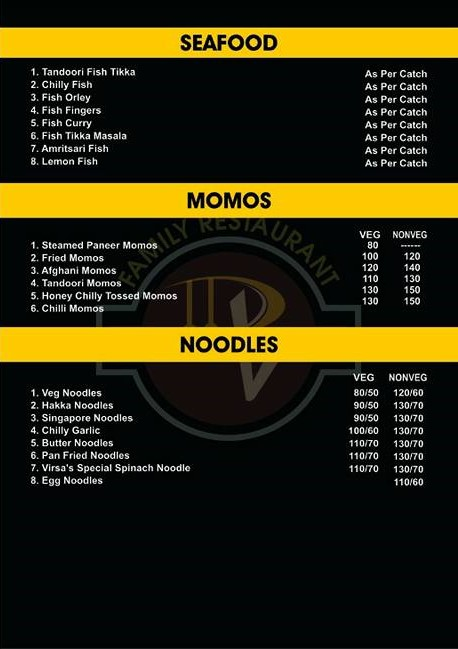
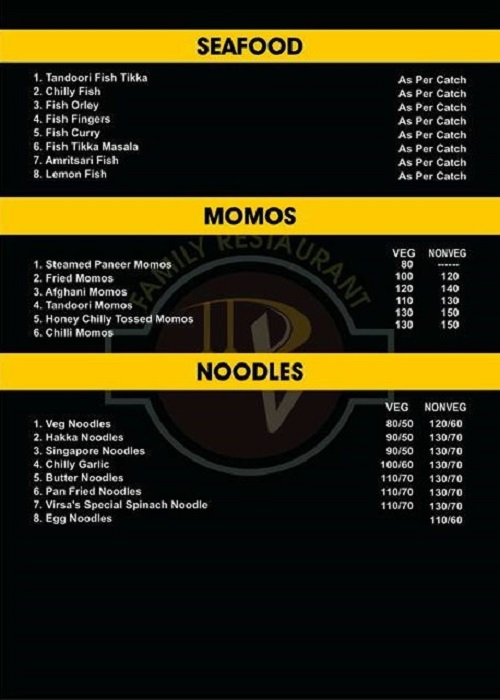
images resize

diff --git a/menu.html b/menu.html
@@ -222,7 +222,7 @@ License URL: http://creativecommons.org/licenses/by/3.0/
     <li data-target="#carouselExampleIndicators" data-slide-to="6"></li>
     <li data-target="#carouselExampleIndicators" data-slide-to="7"></li>
   </ol>
-  <div class="carousel-inner" style="width:55%;margin: auto;">
+  <div class="carousel-inner" style="width: 75%;margin: auto;">
     <div class="carousel-item active">
       <img class="d-block w-100" src="images/menu1.jpg" alt="First slide" >
     </div>
@@ -262,7 +262,12 @@ License URL: http://creativecommons.org/licenses/by/3.0/
 <div style="text-align:center">
   <span class="dot" onclick="currentSlide(1)"></span> 
   <span class="dot" onclick="currentSlide(2)"></span> 
-  <span class="dot" onclick="currentSlide(3)"></span> 
+  <span class="dot" onclick="currentSlide(3)"></span>
+  <span class="dot" onclick="currentSlide(4)"></span> 
+  <span class="dot" onclick="currentSlide(5)"></span> 
+  <span class="dot" onclick="currentSlide(6)"></span> 
+  <span class="dot" onclick="currentSlide(7)"></span> 
+  <span class="dot" onclick="currentSlide(8)"></span>  
 </div>
 
 

diff --git a/css/style.css b/css/style.css
@@ -135,6 +135,7 @@ a:hover {
 nav.navbar.navbar-expand-lg.navbar-light.bg-light {
     padding: 3% 0px;
     background: url(../images/header.png) no-repeat left !important;
+    width: 100%;
     margin-left: 5%;
     max-width: 100%;
 }
